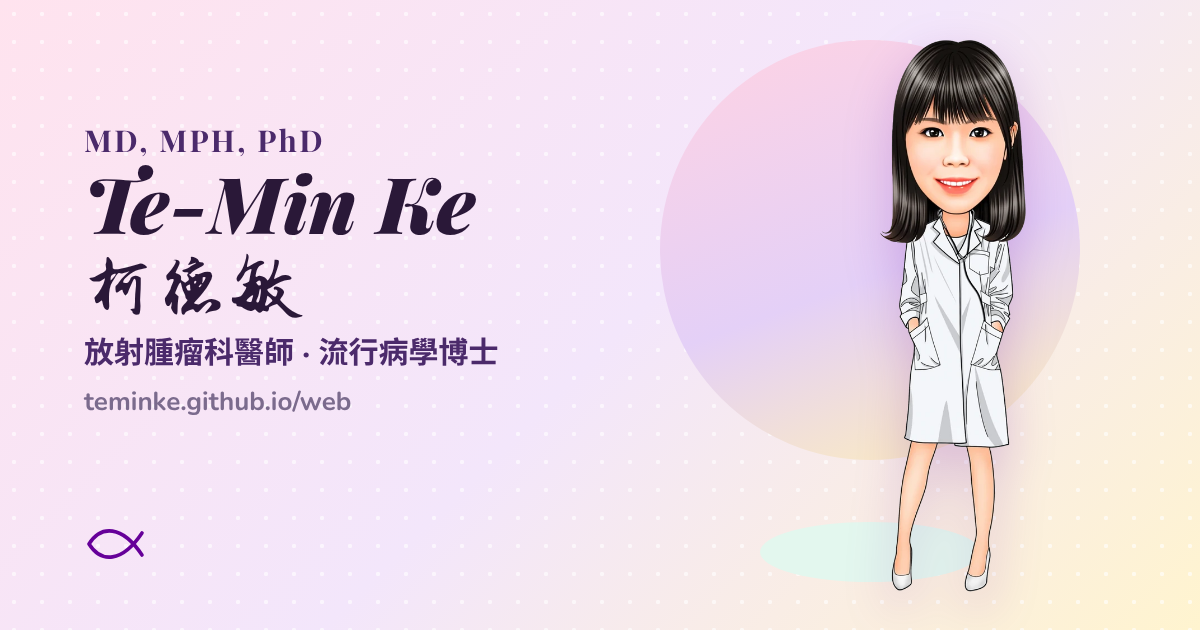
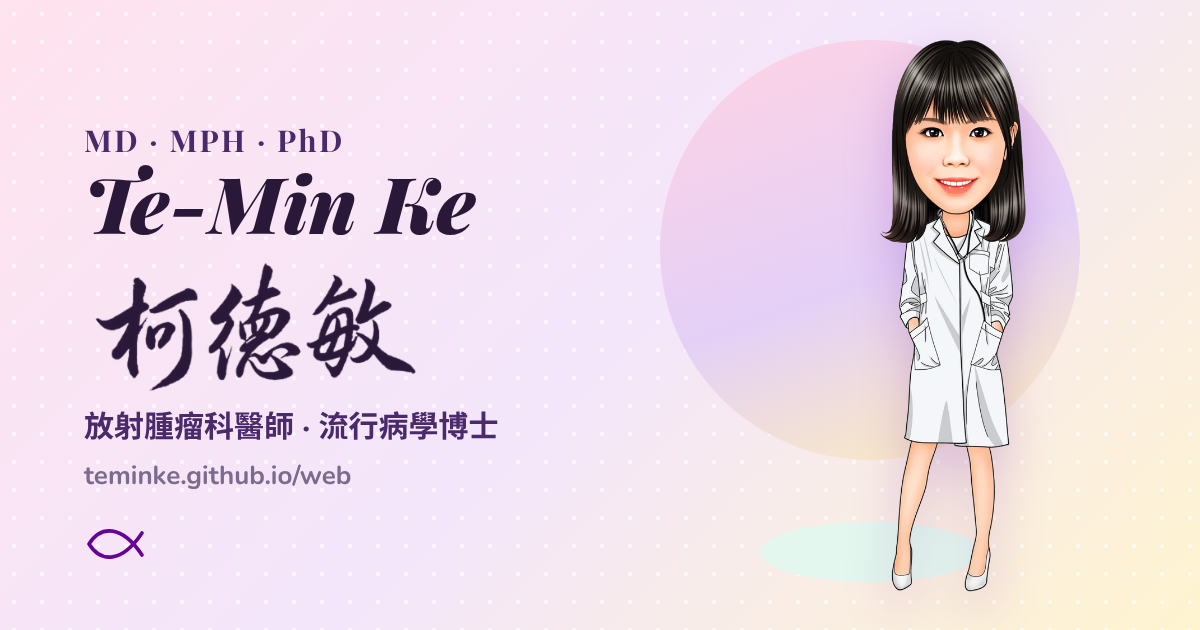
Use middle dots in the hero degree line; put the calligraphy on the share image
- Home hero small line reads "MD · MPH · PhD"; the About heading, page
  titles and footer keep the standard comma form.
- The Open Graph cover now uses the real calligraphy image, enlarged to
  match the home hero.

Claude-Session: https://claude.ai/code/session_011433SBSWQfttNh64ZnHhbt

Changed region(s): [[0.0617, 0.3921, 0.4317, 0.7841], [0.1233, 0.181, 0.3083, 0.2413]]

diff --git a/index.html b/index.html
@@ -78,7 +78,7 @@
     <section class="hero">
       <div class="container hero-inner">
         <div class="hero-text">
-          <p class="hero-degrees-line" lang="en">MD, MPH, PhD</p>
+          <p class="hero-degrees-line" lang="en">MD · MPH · PhD</p>
           <h1 class="hero-name">
             <span class="name-en" lang="en">Te-Min Ke</span>
             <span class="name-zh" lang="zh-Hant"><img src="assets/images/name-calligraphy.png" width="842" height="368" alt="柯德敏"></span>
